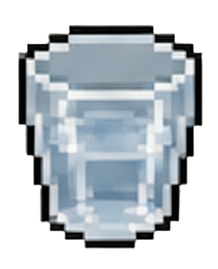
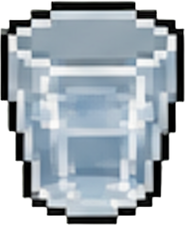
Calibrate visual entity proportions: scale helium cylinder to character height, coal sample and gas mask to half size, and strip opaque backgrounds

diff --git a/src/css/styles.css b/src/css/styles.css
@@ -232,7 +232,7 @@ html,body{
 }
 .placed-entity-sprite{
 	height:100%;
-	max-width:24%;
+	max-width:28%;
 	display:flex;
 	align-items:flex-end;
 	justify-content:center;
@@ -242,10 +242,85 @@ html,body{
 }
 .placed-entity-sprite:hover{transform:scale(1.08);}
 .placed-entity-sprite.item-helium_cylinder{
-	height:80%!important;
+	height:98%!important;
+	max-width:28%!important;
 }
 .placed-entity-sprite.item-coal_sample{
-	height:40%!important;
+	height:42%!important;
+	max-width:18%!important;
+}
+.placed-entity-sprite.item-gas_mask{
+	height:42%!important;
+	max-width:18%!important;
+}
+.placed-entity-sprite.item-pore_structure{
+	height:48%!important;
+	max-width:20%!important;
+}
+.placed-entity-sprite.item-lunch{
+	height:38%!important;
+	max-width:18%!important;
+}
+.placed-entity-sprite.item-water{
+	height:36%!important;
+	max-width:16%!important;
+}
+.placed-entity-sprite.item-stopwatch{
+	height:34%!important;
+	max-width:16%!important;
+}
+.placed-entity-sprite.item-dna_fibers{
+	height:42%!important;
+	max-width:18%!important;
+}
+.placed-entity-sprite.item-sealed_letter,
+.placed-entity-sprite.item-assignment_letter,
+.placed-entity-sprite.item-notebook,
+.placed-entity-sprite.item-papers,
+.placed-entity-sprite.item-research_report{
+	height:45%!important;
+	max-width:20%!important;
+}
+.placed-entity-sprite.item-form_a,
+.placed-entity-sprite.item-form_b,
+.placed-entity-sprite.item-photo_51{
+	height:50%!important;
+	max-width:20%!important;
+}
+.placed-entity-sprite.item-amorphous_carbon{
+	height:44%!important;
+	max-width:18%!important;
+}
+.placed-entity-sprite.item-carbon_chart,
+.placed-entity-sprite.item-math_models{
+	height:52%!important;
+	max-width:22%!important;
+}
+.placed-entity-sprite.item-xray_beam{
+	height:75%!important;
+	max-width:25%!important;
+}
+.placed-entity-sprite.item-xray_camera{
+	height:65%!important;
+	max-width:22%!important;
+}
+.placed-entity-sprite.item-dry_chamber,
+.placed-entity-sprite.item-humid_chamber{
+	height:70%!important;
+	max-width:24%!important;
+}
+.placed-entity-sprite.item-wire_model,
+.placed-entity-sprite.item-double_helix_model{
+	height:75%!important;
+	max-width:24%!important;
+}
+.placed-entity-sprite.item-desk{
+	height:75%!important;
+	max-width:28%!important;
+}
+.placed-entity-sprite.item-baggage{
+	height:50%!important;
+	max-width:22%!important;
 }
 .char-question-mark{
 	position:absolute;
